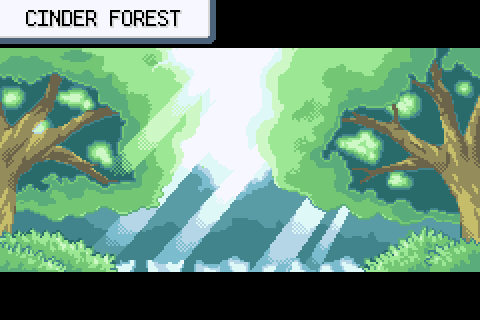
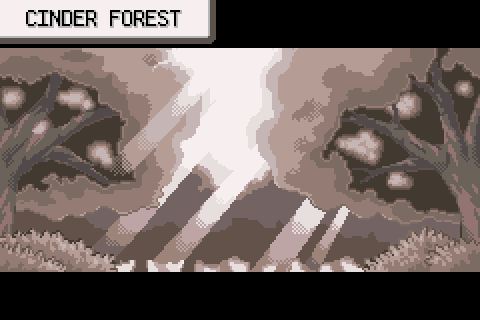
Route 2 v3: forest portals redrawn as long pipe buildings (3x6)
Claude-Session: https://claude.ai/code/session_01GQJ6VBZbBVtTh4mURN6n2L

diff --git a/docs/topaze/route2_gradient.py b/docs/topaze/route2_gradient.py
@@ -123,13 +123,13 @@ for x in range(0, W, 2):
 for y in range(2, H - 2, 2):
     tree(0, y); tree(W - 2, y)
 PATH = set()
-WALL_Y0, WALL_Y1 = 27, 32                         # falaise pleine largeur : la foret passe dessous
-HS, HN = (12, 30), (12, 22)                       # portails de pierre 3x3 (coin haut-gauche)
-DOOR_S, DOOR_N = (13, 32), (13, 24)
+WALL_Y0, WALL_Y1 = 28, 33                         # falaise pleine largeur : la foret passe dessous
+HS, HN = (12, 28), (12, 20)                       # portails de pierre 3x3 (coin haut-gauche)
+DOOR_S, DOOR_N = (13, 33), (13, 25)
 RIDGE_Y = [9, 16, 40, 47]
 GAPS = [(15, 20), (4, 9), (4, 9), (16, 21)]       # breches (nord -> sud)
-WAY_S = [(12, H - 3), (12, H - 5), (18, 50), (18, 44), (6, 43), (6, 37), (13, 35), (13, 33)]
-WAY_N = [(13, 25), (9, 25), (6, 19), (6, 13), (17, 12), (17, 6), (13, 3), (13, 1)]
+WAY_S = [(12, H - 3), (12, H - 5), (18, 50), (18, 44), (6, 43), (6, 37), (13, 36), (13, 34)]
+WAY_N = [(13, 26), (9, 26), (6, 20), (6, 13), (17, 12), (17, 6), (13, 3), (13, 1)]
 def seg(a, b):
     (x0, y0), (x1, y1) = a, b
     n = max(abs(x1 - x0), abs(y1 - y0))
@@ -157,10 +157,11 @@ for (x, y) in PATH:
 def dil(cells, r):
     return {(x + i, y + j) for (x, y) in cells for i in range(-r, r + 1) for j in range(-r, r + 1)}
 CLEAR = dil(PATH, 1)
+HS_CELLS_ = {(HS[0] + i, HS[1] + j) for i in range(3) for j in range(6)}
 # ---- panneaux, PNJ, objets (cases reservees avant les falaises)
 SIGN_S, SIGN_N = (10, H - 4), (10, 5)
 NPC = {'hiker': (21, 52), 'miner': (18, 20), 'ether': (21, 43), 'heal': (21, 5)}
-RES = dil([SIGN_S, SIGN_N] + list(NPC.values()), 1) | dil({(HN[0] + i, HN[1] + j) for i in range(3) for j in range(3)}, 1)
+RES = dil([SIGN_S, SIGN_N] + list(NPC.values()), 1) | dil({(HN[0] + i, HN[1] + j) for i in range(3) for j in range(6)}, 1) | dil(HS_CELLS_, 1)
 for c in NPC.values(): OCC[c] = 'pnj'
 # ---- falaise pleine largeur (la foret passe dessous) ; les deux portails sont dedans / devant
 rnd = random.Random(2020)
@@ -170,7 +171,7 @@ def wob(seed_):
         v = max(-1, min(1, v + r.choice((-1, 0, 0, 1)))); out.append(v)
     return out
 WALL = set(); BLOB = {}; RIDGE = set()
-HS_CELLS = {(HS[0] + i, HS[1] + j) for i in range(3) for j in range(3)}
+HS_CELLS = {(HS[0] + i, HS[1] + j) for i in range(3) for j in range(6)}
 wt, wbm = wob(5), wob(9)
 for x in range(2, W - 2):
     top = WALL_Y0 + (1 if wt[x] > 0 else 0); bot = WALL_Y1 - (1 if wbm[x] < 0 else 0)
@@ -303,6 +304,27 @@ def vent_img(st):
         d.line(pts, fill=6, width=3); d.line(pts, fill=10 + k)
     d.point((8, 7), fill=12)
     return im
+def tube_img(st):
+    im = ground_bg(48, 96, st); d = ImageDraw.Draw(im)
+    d.ellipse((0, 86, 47, 95), fill=13)
+    d.rectangle((4, 10, 43, 86), fill=7, outline=5)
+    d.rectangle((5, 11, 10, 85), fill=8); d.rectangle((38, 11, 42, 85), fill=6)
+    for y in range(22, 70, 12):
+        d.line([(5, y), (42, y)], fill=6); d.line([(5, y + 1), (42, y + 1)], fill=8)
+        d.rectangle((3, y - 1, 44, y + 2), outline=5)
+    d.line([(23, 12), (23, 68)], fill=9)
+    d.ellipse((8, 0, 39, 20), fill=6, outline=5); d.ellipse((14, 4, 33, 15), fill=5)
+    d.ellipse((18, 6, 29, 12), fill=11); d.point((22, 8), fill=12); d.point((26, 9), fill=10)
+    d.rectangle((2, 68, 45, 88), fill=14, outline=5)
+    for y in range(71, 88, 5):
+        d.line([(3, y), (44, y)], fill=13)
+        for x in range(5 + (y % 2) * 4, 44, 8): d.line([(x, y), (x, y + 4)], fill=13)
+    d.line([(3, 69), (44, 69)], fill=15)
+    d.rectangle((18, 77, 29, 91), fill=5); d.ellipse((18, 72, 29, 82), fill=5)
+    d.rectangle((20, 79, 27, 91), fill=6); d.ellipse((20, 74, 27, 81), fill=6)
+    d.line([(21, 91), (26, 91)], fill=8)
+    for lx in (13, 34): d.rectangle((lx, 79, lx + 1, 82), fill=11); d.point((lx, 78), fill=12)
+    return im
 def house_img(st):
     """portail de pierre 3x3 (la porte est la case basse centrale)."""
     im = ground_bg(48, 48, st); d = ImageDraw.Draw(im)
@@ -341,7 +363,8 @@ def sign_art(st):
 for st in range(3): ART[('sign', st)] = meta(sign_art(st), st)
 for st in range(3):
     ART[('vent', st)] = meta(vent_img(st), st); ART[('stump', st)] = meta(stump_img(st), st)
-    b = house_img(st); ART[('house', st)] = {(i, j): meta(b.crop((i * 16, j * 16, i * 16 + 16, j * 16 + 16)), st) for j in range(3) for i in range(3)}
+    pass
+b = tube_img(2); ART[('tube', 2)] = {(i, j): meta(b.crop((i * 16, j * 16, i * 16 + 16, j * 16 + 16)), 2) for j in range(6) for i in range(3)}
 def rock_img(mask, st, var):
     """case de falaise ; mask = bits N(1) E(2) S(4) O(8) : 1 si la voisine est aussi de la roche. Indices : 14 corps, 15 clair, 13 face sombre, 5 contour."""
     im = ground_bg(16, 16, st); d = ImageDraw.Draw(im)
@@ -390,12 +413,12 @@ claim(*SIGN_S, 1, 1, 'panneau'); ART_PLACE[SIGN_S] = ART[('sign', 0)]
 claim(*SIGN_N, 1, 1, 'panneau'); ART_PLACE[SIGN_N] = ART[('sign', 2)]
 DOORS = {DOOR_S, DOOR_N}
 for (hx, hy), nm in ((HS, 'portail sud'), (HN, 'portail nord')):
-    for j in range(3):
+    for j in range(6):
         for i in range(3):
             c = (hx + i, hy + j)
             if c in OCC and OCC[c] == 'roche': del OCC[c]
-    claim(hx, hy, 3, 3, nm)
-    for (i, j), k in ART[('house', 2)].items(): ART_PLACE[(hx + i, hy + j)] = k
+    claim(hx, hy, 3, 6, nm)
+    for (i, j), k in ART[('tube', 2)].items(): ART_PLACE[(hx + i, hy + j)] = k
 for c in NPC.values(): assert c not in ART_PLACE, ('PNJ sur un decor', c)
 # ---- bosquets d'arbres
 def near(x, y, r=1):

diff --git a/tools/topaze/emu/t_route2e.py b/tools/topaze/emu/t_route2e.py
@@ -14,6 +14,6 @@ path = [tuple(c) for c in info['path']]
 for y in (50, 44, 37):
     tgt = next(c for c in path if c[1] == y and tuple(c) not in P.B); print(tgt, goto(tgt, maxit=30))
 print(sh(['shot r2_south.ppm']))
-print('portail sud ->', goto((13, 33), maxit=30), sh(['key UP 40', 'run 120', 'shot r2_forest.ppm']))
+print('portail sud ->', goto((13, 34), maxit=30), sh(['key UP 40', 'run 120', 'shot r2_forest.ppm']))
 print(sh(['key UP 40', 'run 60', 'key UP 40', 'run 60', 'shot r2_forest2.ppm']))
 print(sh(['key UP 60', 'run 100', 'shot r2_forest3.ppm']))

diff --git a/tools/topaze/emu/t_route2d.py b/tools/topaze/emu/t_route2d.py
@@ -14,4 +14,4 @@ path = [tuple(c) for c in info['path']]
 for y in (6, 13, 19):
     tgt = next(c for c in path if c[1] == y and tuple(c) not in P.B); print(tgt, goto(tgt, maxit=30))
 print(sh(['shot r2_north.ppm']))
-print('portail nord ->', goto((13, 25), maxit=30), sh(['key UP 40', 'run 120', 'shot r2_forestN.ppm']))
+print('portail nord ->', goto((13, 26), maxit=30), sh(['key UP 40', 'run 120', 'shot r2_forestN.ppm']))

diff --git a/docs/technique/ARCHITECTURE.md b/docs/technique/ARCHITECTURE.md
@@ -50,7 +50,7 @@ Le dépôt est celui de pokefirered ; seuls les éléments modifiés pour Topaze
 | **Opanihrum v1 – la cité de l'Opale noire (arène d'Hepha, Acier)** | Ville 42×40 (slot de Jadielle, `LAYOUT_VIRIDIAN_CITY`) construite avec les décors de **Rustboro** (pierre grise d'Émeraude) recolorés en ardoise bleu-nuit (« plus il est sombre, plus il cache de couleurs », cf. dialogue d'Hepha) + art procédural : monument d'opale noire à reflets irisés, enclumes, lingots. `docs/topaze/opanihrum_town.py` (génère carte + tilesets `general_opal` / `rustboro_opal`, **secondaire compacté** : seules les métatuiles utilisées sont gardées, 161+49 tuiles sur 384) puis `opanihrum_events.py`. Rendu d'aide au choix des morceaux : `docs/topaze/emrender.py` (`../pokeemerald` doit avoir `data/layouts/RustboroCity` en sparse-checkout). Bâtiments : **fonderie** (10×9, arène, 2 portes en (8,11)/(9,11), verrouillée par `VAR_MAP_SCENE_VIRIDIAN_CITY_GYM_DOOR`), école, maison, Centre (16,20), Boutique (27,20) + 6 bâtiments décoratifs, fontaine, parc, parterres, lampadaires, grille de fer. Vieil homme (barrage/tutoriel de capture) déplacé à la **porte nord** (20,2), déclencheur (21,2). Sorties = **warps** : nord Route 2 (`x=7..11,y=79`), sud Route 1 (`x=10..13,y=0`), ouest Route 22 (`x=47,y=6..9`) ; `IsTopazeStepWarpMap()` étendu à `LAYOUT_VIRIDIAN_CITY`/`ROUTE2`/`ROUTE22`. Respawn du Centre mis à jour (`heal_locations.h`). Ordre : `opanihrum_town.py` → `opanihrum_events.py` → supprimer `build/firered/data/maps.o` → `make`. Rendu : `docs/topaze/reference/opanihrum_v1.png`. |
 | **Pyropia v3 « en terrasses » – la cité du volcan (arène de Kay, Feu)** | Ville 48×40 (slot d'Argenta, `LAYOUT_PEWTER_CITY`) refaite avec les décors de **Lavaridge** (falaises rouges, bassin, arène, maisons à écailles) recolorés en braise : cendre sombre, terre brûlée, **bassin = lac de lave** (teinte HLS de la palette 8, comportement « eau » retiré : pas de Surf) + art procédural (vents de braise, braseros, obsidienne, **cairn de flamme** 3×3). `docs/topaze/pyropia_town.py` (carte + tilesets `general_ember` / `lavaridge_ember`, secondaire compacté 43+47 tuiles, **variantes miroir** pour la falaise est) puis `pyropia_events.py`. **v3 (« la ville est plate »)** : relief en **3 terrasses décalées** (sommet : arène entre deux lacs de lave ; milieu : Centre, Boutique, musée ; bas : maisons et place du cairn) séparées par des **murs de soutènement de 2 cases** (bandeau 625 + face 628) avec **escaliers** dessinés, joint vertical en falaise miroir ; grand lac de lave est (rectangle bordé de roche, `lake()`). L'avenue monte en ligne droite de la sortie sud à l'arène ; rue du milieu, rue du bas, rue est (sortie est → Route 3 en (47,25..26)). La v2 plate est gardée : `docs/topaze/reference/pyropia_v2.{png,py}`. Avant (v2) : **v3d** : toits du Centre et de la Boutique rétablis (rangée du haut gardée avec un **fond d'herbe** à la place de la falaise : option `ground` de `remap()`), coins des lacs sans morceaux de falaise (même option), murs de pins continus le long des bords (plus de trous), bandeau du bas en 620. **v3c** : musée = **façade dessinée** (colonnade, fronton « MUSEUM », 2 portes, bannière de flamme, `museum_art()` 160×64) ; 2 **maisons enterrables en plus** (près de l'arène, et à l'est) = nouvelles cartes `PewterCity_House3/4` (copie de l'intérieur House2, générées par `docs/topaze/pyropia_houses.py` : carte, scripts, textes, `map_groups.json`, `event_scripts.s`) ; 6 **PNJ d'ambiance** (mineur, enfant, scientifique, guide, grand-mère, campeur ; textes provisoires). Ordre : `pyropia_houses.py` → `pyropia_town.py` → `pyropia_events.py`. **v3b** : plus aucune maison sans porte : seules restent les 2 maisons qui ont un intérieur ; les vides sont comblés par des **cratères de lave** et des **amas d'obsidienne** (art 3×3), le musée redevient une **grande halle rouge 10×4 à 2 portes** (comme l'original), Centre et Boutique sans la rangée de toit qui montrait des morceaux de falaise ; `pyropia_town.py` vérifie par assertion que portes, sorties et escaliers forment **un seul réseau de chemins**. Sorties = **warps** (`IsTopazeStepWarpMap()` étendu à `LAYOUT_PEWTER_CITY`/`ROUTE3`), Route 2 (8..11,0) et Route 3 (0,9..12). Guides scriptés d'origine (guide de l'arène, du musée, assistant aux chaussures, arbre à couper) retirés/cachés (OnTransition) car leurs trajets étaient codés en dur ; chaussures de course déjà données au début. **Respawn du Centre** : désormais dans `src/data/heal_locations.json` (le `.h` est généré et ignoré par git ; l'ancienne édition du `.h` pour Opanihrum était perdue à chaque régénération : corrigée). Rendu : `docs/topaze/reference/pyropia_v2.png`. L'ancienne version (Argenta repeinte, `volcanic_pyropia.py`) est conservée dans l'historique. |
 | **Route 1 « route du dégradé » (carte entièrement nouvelle 26×54)** | `docs/topaze/route1_gradient.py` puis `route1_events.py`. Les couleurs glissent du **grenat** (sud, Grenalux) au **violet** puis à l'**opale noire** (nord, Opanihrum) : 3 étages de palettes (mélange en teinte HLS par le violet) ; les métatuiles d'Émeraude (herbe, arbres, fleurs, herbe haute, sable) sont recopiées dans le tileset secondaire `gradient_road` avec d'autres numéros de palette (emplacements : étage 0 = primaire 0,2,5 ; étage 1 = primaire 1,3,4 ; étage 2 = secondaire 7,8,9 ; art 6/10/11 ; panneau 12), l'étage de chaque case suit le gradient sud→nord + un champ lisse + un grain (fondu irrégulier). Chemin sinueux, 10 zones d'herbes hautes (rencontres), cristaux épars (prismes de grenat → dômes d'opale) et « pierre du dégradé » (3×3). Warps : sud (12..13,53) ↔ Grenalux, nord (14..17,0) ↔ Opanihrum. Le garçon et le panneau ont de nouveaux textes (plus de corniches). Primaire `general_gradient`. Rendu : `docs/topaze/reference/route1_gradient_v1.png`. **v5 (actuelle)** : transitions arbres/herbe corrigées (arbres et herbe de bordure ou voisine d'un arbre prennent le même étage lissé, sans grain). Rendu : `route1_gradient_v5.png`. **v4 (gardée de côté : `reference/route1_gradient_v4.{png,py}`, branche `route1-gradient-v4-reference`)** : retour « trop longue, le joueur va tout droit » → carte raccourcie **26×38** et chemin **obligatoirement en zigzag** : 4 crêtes de roche quasi pleine largeur (bords ondulés) avec chacune une brèche, côtés alternés (`RIDGE_Y`, `GAPS` dans `route1_gradient.py`) ; warps sud (12..13,37), nord (14..17,0). Rendu : `route1_gradient_v4.png`. **v3 (archivée, `route1_gradient_v3.png`)** : retour de l'utilisateur sur la v2 « trop brute, pas assez naturel, les murs ne se touchent pas » → chemin en méandre continu (`xc(y)` + remplissage ligne à ligne), plus de monticules ni de corniches ; 11 **plateaux rocheux organiques** (blobs de croissance compacte) dessinés en **autotile** (masque des 4 voisins, 3 variantes, teinte selon l'étage au centroïde) donc les murs se touchent et forment des crêtes continues ; pierre du dégradé et panneau (11,51) conservés. Rendu : `docs/topaze/reference/route1_gradient_v3.png`. **v2 (archivée dans le rendu `route1_gradient_v2.png`)** : chemin beaucoup plus sinueux (18 points, segments courts), 5 **murs de collines** (monticules de roche 2×2, métatuiles 131/132/139/140, palette de roche partagée en 12) qui ne laissent que le chemin, **corniches** (ledges, saut vers le sud) en terrasses, panneau dessiné en art ; herbes hautes tirées au hasard près du chemin. La v1 (chemin presque droit) est conservée : `docs/topaze/reference/route1_gradient_v1.{png,py}` et branche `route1-gradient-v1-reference`. |
-| **Route 2 « route du crépuscule » (carte entièrement nouvelle 26×56, Opanihrum → Pyropia)** | `docs/topaze/route2_gradient.py` puis `route2_events.py` (tilesets `general_dusk`/`dusk_road`, C : `GeneralDusk`/`DuskRoad`). Même technique de palettes par étages que la Route 1, dégradé opale noire → cendre grise → braise, interpolé en RVB (v2 : plus de violet ; la braise est atteinte à y=30, au pied de la falaise, donc on sent la forêt brûlée avant d'y entrer ; souches calcinées dispersées, plus denses près des portails). Falaise pleine largeur (y 27-32) : on ne passe du sud au nord que par la Forêt de Jade, via deux portails de pierre dessinés (3×3, case basse centrale = porte, warps 0 nord / 1 sud). Warps : 2,3 sud → Opanihrum (ids 6,7) ; 4,5 nord → Pyropia (ids 7,8). Cristaux d'opale au sud, éclats d'obsidienne et fissures de braise au nord. Supprimés : maison, entrée de Diglett, bâtiment est, arbres à couper (contournaient la forêt). Référence : `docs/topaze/reference/route2_dusk_v1.png`. ATTENTION : relancer `pyropia_events.py` ou `opanihrum_events.py` réécrit les warps vers la Route 2 (refaire `route2_events.py`). |
+| **Route 2 « route du crépuscule » (carte entièrement nouvelle 26×56, Opanihrum → Pyropia)** | `docs/topaze/route2_gradient.py` puis `route2_events.py` (tilesets `general_dusk`/`dusk_road`, C : `GeneralDusk`/`DuskRoad`). Même technique de palettes par étages que la Route 1, dégradé opale noire → cendre grise → braise, interpolé en RVB (v2 : plus de violet ; la braise est atteinte à y=30, au pied de la falaise, donc on sent la forêt brûlée avant d'y entrer ; souches calcinées dispersées, plus denses près des portails). Falaise pleine largeur (y 27-32) : on ne passe du sud au nord que par la Forêt de Jade, via deux longs « tuyaux » de pierre dessinés (3×6, case basse centrale = porte, warps 0 nord / 1 sud ; v3 : le tuyau sud traverse toute l'épaisseur de la falaise, y 28-33, le nord est dressé devant, y 20-25). Warps : 2,3 sud → Opanihrum (ids 6,7) ; 4,5 nord → Pyropia (ids 7,8). Cristaux d'opale au sud, éclats d'obsidienne et fissures de braise au nord. Supprimés : maison, entrée de Diglett, bâtiment est, arbres à couper (contournaient la forêt). Référence : `docs/topaze/reference/route2_dusk_v1.png`. ATTENTION : relancer `pyropia_events.py` ou `opanihrum_events.py` réécrit les warps vers la Route 2 (refaire `route2_events.py`). |
 | **Forêt calcinée (ex Viridian Forest, « CINDER FOREST »)** | `docs/topaze/forest_cinder.py` : mêmes cartes, tilesets recopiés (`general_cinder` / `cinder_forest`, C : `GeneralCinder`/`CinderForest`) avec palettes cendre/charbon, image d'intro recolorée (`graphics/map_preview/viridian_forest/tiles.png`, original dans `docs/topaze/reference/forest_preview_orig.png`), nom changé dans `region_map_entry_strings.h`. Palette seule pour l'instant : pas encore de braises/troncs dessinés ni de Pokémon sauvages adaptés. Référence : `docs/topaze/reference/forest_cinder_v1.png`. |
 | Ville de départ Grenalux | `PalletTown` (`text.inc`), `region_map_entry_strings.h` |
 | Rival par défaut ZEPHYR | `data/text/new_game_intro.inc` |
